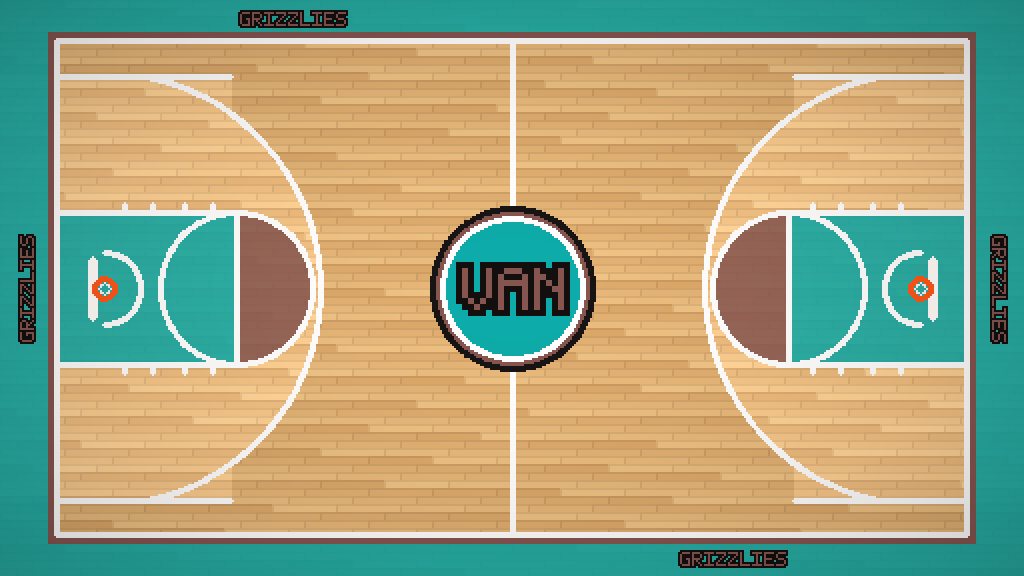
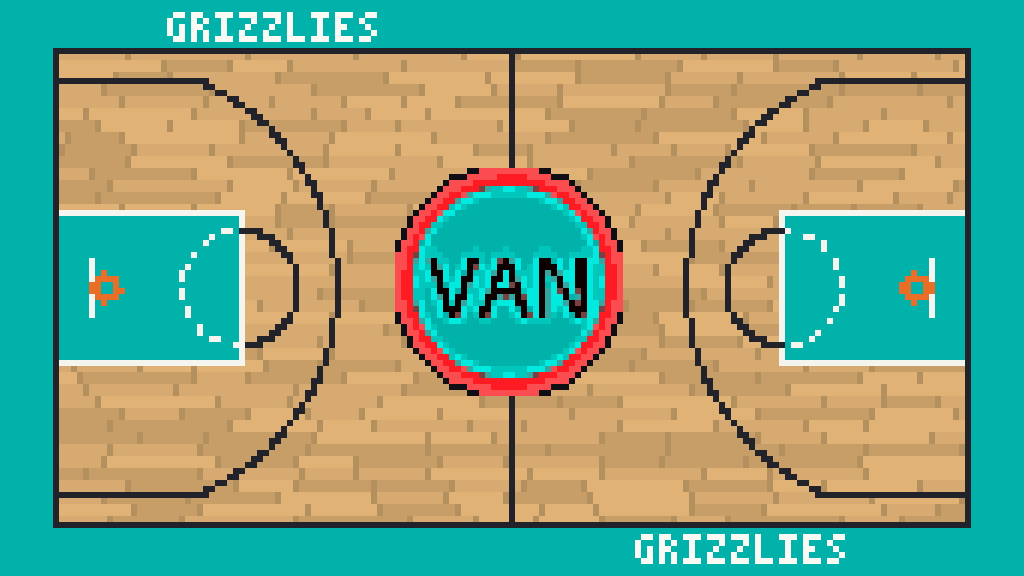
3.4-pro.216: live game shows the right home court for relocated teams, game leaders at the final, no stale lines after the horn; Sonics and Vancouver courts redrawn
Claude-Session: https://claude.ai/code/session_01Ad921vCXCXK62i93PQ2ZeT

diff --git a/app/src/commonMain/kotlin/com/nh/hoopscoach/ui/GameScreens.kt b/app/src/commonMain/kotlin/com/nh/hoopscoach/ui/GameScreens.kt
@@ -180,7 +180,7 @@ fun LiveScreen(vm: GameViewModel, lg: League) {
         Scoreboard(away, home, e.score[1], e.score[0], if (e.finished) "FINAL" else clock(e.clock.toInt().coerceAtLeast(0)), if (e.finished) "" else e.periodLabel, lg.userTeamId)
         Spacer(Modifier.height(8.dp))
         CrowdLine(lg, e.game)
-        if (e.bigNight.isNotEmpty()) {
+        if (e.bigNight.isNotEmpty() && !e.finished) {
             Spacer(Modifier.height(6.dp))
             Row(Modifier.fillMaxWidth().padding(horizontal = Gutter + 4.dp), verticalAlignment = Alignment.CenterVertically) {
                 Tag(e.bigNight.uppercase(), P.bad, filled = true)
@@ -233,7 +233,9 @@ fun LiveScreen(vm: GameViewModel, lg: League) {
         }
         lv.moment?.let { m -> MomentCard(lg, lv, m); Spacer(Modifier.height(8.dp)) }
         lv.call?.let { c -> CallCard(lg, lv, c); Spacer(Modifier.height(8.dp)) }
-        lv.momentResult?.takeIf { lv.moment == null && lv.call == null }?.let {
+        // At the final horn, the game's leaders replace the last big moment.
+        if (e.finished) { GameLeaders(e.boxScore(), home, away); Spacer(Modifier.height(8.dp)) }
+        lv.momentResult?.takeIf { lv.moment == null && lv.call == null && !e.finished }?.let {
             Panel(Modifier.popIn(it), color = P.accentSoft, padding = PaddingValues(horizontal = 14.dp, vertical = 10.dp)) { Text("★ $it", style = T.bodyB, color = P.ink) }
             Spacer(Modifier.height(8.dp))
         }
@@ -283,6 +285,25 @@ fun LiveScreen(vm: GameViewModel, lg: League) {
             } else {
                 val box = e.boxScore()
                 LazyColumn(Modifier.fillMaxWidth().weight(1f)) { item { BoxTable(vm, lg, if (view == 1) away else home, if (view == 1) box.away else box.home) } }
+            }
+        }
+    }
+}
+
+/** Each side's top scorer, in a line: name, points, rebounds, assists. */
+@Composable
+private fun GameLeaders(box: com.nh.hoopscoach.game.BoxScore, home: Team, away: Team) {
+    Panel(padding = PaddingValues(horizontal = 14.dp, vertical = 10.dp)) {
+        Text("GAME LEADERS", style = T.label, color = P.accent)
+        Spacer(Modifier.height(4.dp))
+        for ((t, lines) in listOf(away to box.away, home to box.home)) {
+            val top = lines.maxByOrNull { it.s.pts * 3 + it.s.orb + it.s.drb + it.s.ast } ?: continue
+            Row(Modifier.fillMaxWidth().padding(vertical = 3.dp), verticalAlignment = Alignment.CenterVertically) {
+                Box(Modifier.size(width = 3.dp, height = 18.dp).clip(RoundedCornerShape(2.dp)).background(teamInk(t)))
+                Spacer(Modifier.width(8.dp))
+                Text(t.abbr, style = T.label, color = P.sub, modifier = Modifier.width(44.dp))
+                Text(top.name, style = T.bodyB, color = P.ink, maxLines = 1, overflow = TextOverflow.Ellipsis, modifier = Modifier.weight(1f))
+                Text("${top.s.pts} PTS · ${top.s.orb + top.s.drb} REB · ${top.s.ast} AST", style = T.small, color = P.sub, maxLines = 1)
             }
         }
     }

diff --git a/app/src/commonMain/kotlin/com/nh/hoopscoach/ui/SpriteSheets.kt b/app/src/commonMain/kotlin/com/nh/hoopscoach/ui/SpriteSheets.kt
@@ -137,8 +137,10 @@ object SpriteSheets {
     /** The school's own art key (jersey and court files share it), whatever kit it's wearing. */
     fun artKey(abbr: String?, slot: String? = null): String? {
         val s = slot?.uppercase()?.takeIf { it.isNotBlank() }
-        if (s != null) JERSEY_BY_ABBR[s]?.let { return it }
-        val a = abbr?.uppercase()?.takeIf { it.isNotBlank() } ?: return null
+        val a = abbr?.uppercase()?.takeIf { it.isNotBlank() }
+        // A pro team: its own identity first (the Sonics in the Thunder's slot wear Sonics art), then the slot's.
+        if (s != null) (a?.let { JERSEY_BY_ABBR[it] } ?: JERSEY_BY_ABBR[s])?.let { return it }
+        if (a == null) return null
         COLLEGE_BY_ABBR[a]?.let { return it }
         return null
     }

diff --git a/app/src/desktopMain/kotlin/com/nh/hoopscoach/Main.kt b/app/src/desktopMain/kotlin/com/nh/hoopscoach/Main.kt
@@ -18,7 +18,7 @@ fun main() {
     val home = File(System.getProperty("user.home"), ".hoopsdynasty").apply { mkdirs() }
     PlatformContext.filesDir = home
     SaveTransfer.host = DesktopTransferHost()
-    PlatformContext.versionName = "3.4-pro.215"
+    PlatformContext.versionName = "3.4-pro.216"
     // A Windows app has no console, so errors go to a log beside the saves (the previous run's is kept).
     runCatching {
         val log = File(home, "hoops-log.txt")

diff --git a/app/src/androidMain/kotlin/com/nh/hoopscoach/MainActivity.kt b/app/src/androidMain/kotlin/com/nh/hoopscoach/MainActivity.kt
@@ -16,7 +16,7 @@ class MainActivity : ComponentActivity() {
         PlatformContext.filesDir = filesDir
         PlatformContext.versionName = runCatching {
             packageManager.getPackageInfo(packageName, 0).versionName
-        }.getOrNull() ?: "3.4-pro.215"
+        }.getOrNull() ?: "3.4-pro.216"
         AndroidAssets.appContext = applicationContext
         enableEdgeToEdge()
         super.onCreate(savedInstanceState)

diff --git a/app/src/commonMain/kotlin/com/nh/hoopscoach/Platform.kt b/app/src/commonMain/kotlin/com/nh/hoopscoach/Platform.kt
@@ -8,7 +8,7 @@ import java.io.File
 /** Paths and version strings that differ per platform. */
 object PlatformContext {
     lateinit var filesDir: File
-    var versionName: String = "3.4-pro.215"
+    var versionName: String = "3.4-pro.216"
 
     val saveFile: File get() = File(filesDir, "dynasty.sav")
 }
